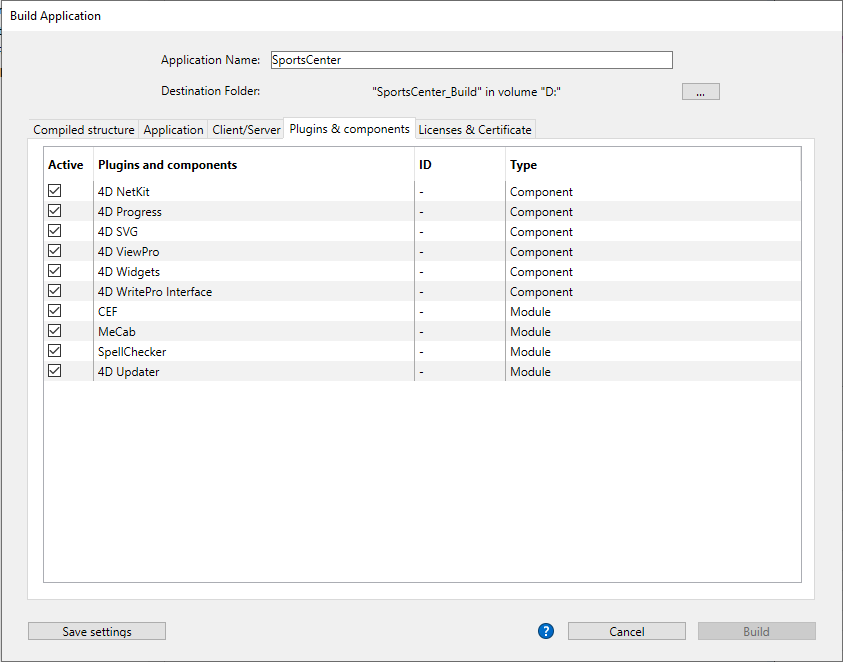
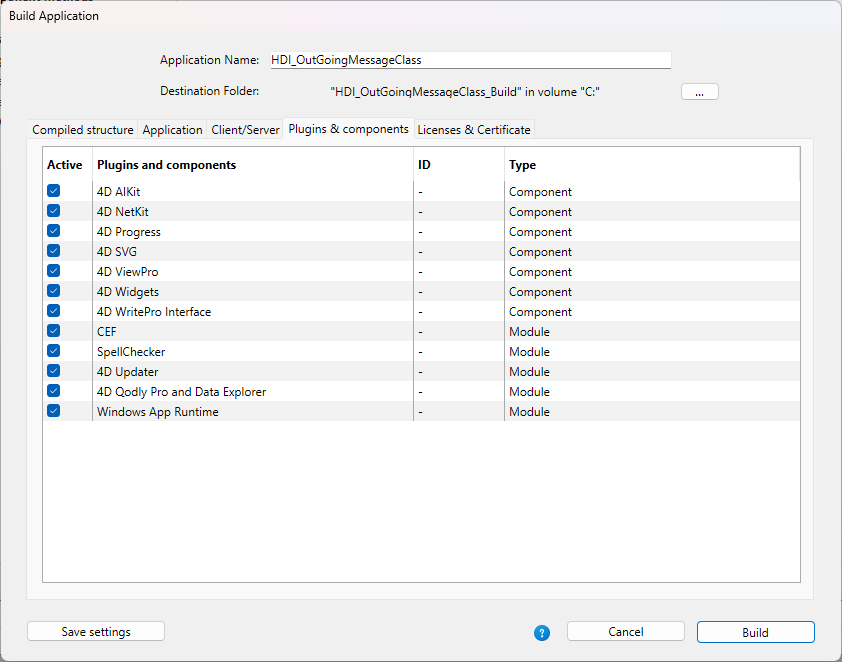
managing feature

diff --git a/sidebars.js b/sidebars.js
@@ -603,7 +603,7 @@ module.exports =
                 "commands-legacy/form-set-size",
                 "commands-legacy/form-set-vertical-resizing",
                 "commands-legacy/form-unload",
-                "commands/form-windows-theme"
+                "commands/form-theme"
               ]
             },
             {

diff --git a/docs/FormEditor/forms.md b/docs/FormEditor/forms.md
@@ -124,9 +124,9 @@ This feature can be used **in 4D projects on Windows**. It is not available on m
 
 ### Requirements
 
-The Fluent UI rendering requires that the ***Windows App SDK** be installed on your machine ([download page](https://learn.microsoft.com/en-us/windows/apps/windows-app-sdk/downloads)). You need to make sure this SDK is installed on any Windows machine displaying your forms.
+The Fluent UI rendering requires that the **Windows App SDK** be installed on your machine ([download page](https://learn.microsoft.com/en-us/windows/apps/windows-app-sdk/downloads)). You need to make sure this SDK is installed on any Windows machine displaying your forms.
 
-If the Windows App SDK is not properly installed, 4D will render all your forms in classic mode with no error. 
+If the Windows App SDK is not properly installed, 4D will render all your forms in classic mode with no error and the following warning will be recorded in the [diagnostic log](../Debugging/debugLogFiles.md#4ddiagnosticlogtxt): "Fluent UI is required but not available. The application runs in the Classic Windows look."
 
 ### Enabling the Fluent UI rendering
 
@@ -139,6 +139,12 @@ Check the **Use Fluent UI on Windows** option in the "Interface" page of the Set
 ![](../assets/en/FormObjects/fluentui-setting.png)
 
 In this case, the Fluent UI rendering mode will be used by default on Windows for all forms.
+
+:::note
+
+If the current configuration is not compliant with the [Fluent UI requirements](#requirements), an error message is displayed next to the check box.
+
+:::
 
 #### Form setting
 

diff --git a/docs/Desktop/building.md b/docs/Desktop/building.md
@@ -494,12 +494,9 @@ A module is a built-in code library used by 4D to control specific features. If 
 The following optional modules can be deselected:
 
 * **CEF**: Chromium embedded library. It is necessary to run [Web areas](../FormObjects/webArea_overview.md) that use the embedded rendering engine and [4D View Pro areas](../FormObjects/viewProArea_overview.md). Calling such areas when CEF is deselected will display blank areas and/or generate errors.
-* **MeCab**: Library used for text indexing in Japanese language (see this [settings paragraph](../settings/database.md#support-of-mecab-japanese-version)). Deselecting this module will force text indexes to be rebuilt in Japanese language.
-
-> If you deselect MeCab for an application in Japanese language used on heterogeneous platforms, make sure to deselect it on both client/server build and [client application build](#build-client-application) (for the concurrent platform), otherwise major malfunctions will occur in the application.
-
 * **SpellChecker**: Used for built-in [spellchecking features](../FormObjects/properties_Entry.md#auto-spellcheck) and commands available for input areas and 4D Write Pro areas.
 * **4D Updater**: Controls the [automatic update](#what-is-a-clientserver-application) of client parts and is used by the `SET UPDATE FOLDER` command for [automated server updates](#automatic-updating-of-server-or-single-user-applications).
+* **Windows App Runtime**: Required for [Fluent UI rendering](../FormEditor/forms.md#fluent-ui-rendering) on Windows.
 
 ## Licenses & Certificate page
 

diff --git a/docs/API/FileClass.md b/docs/API/FileClass.md
@@ -554,6 +554,7 @@ You want to rename "ReadMe.txt" in "ReadMe_new.txt":
 
 |Release|Changes|
 |---|---|
+|21 R2|support of removeFluentUI|
 |20 R9|Read UUIDs in macOS executables|
 |20|Support of WinIcon|
 |19|Added|
@@ -600,14 +601,15 @@ Each valid property set in the *info* object parameter is written in the version
 
 |Property|Type|Comment|
 |---|---|---|
-|InternalName|Text||
-|ProductName|Text||
 |CompanyName|Text||
-|LegalCopyright|Text||
-|ProductVersion|Text||
 |FileDescription|Text||
 |FileVersion|Text||
+|InternalName|Text||
+|LegalCopyright|Text||
 |OriginalFilename|Text||
+|ProductName|Text||
+|ProductVersion|Text||
+|removeFluentUI|Boolean|True to remove the [Fluent UI](../FormEditor/forms.md#fluent-ui-rendering) manifest from the build. Write-only property. Using False or omitting the property does nothing.|
 |WinIcon|Text|Posix path of .ico file. This property applies only to 4D generated executable files.|
 
 For all properties except `WinIcon`, if you pass a null or empty text as value, an empty string is written in the property. If you pass a value type different from text, it is stringified.

diff --git a/docs/Notes/updates.md b/docs/Notes/updates.md
@@ -10,12 +10,11 @@ Read [**What’s new in 4D 21 R2**](https://blog.4d.com/en-whats-new-in-4d-21-r2
 #### Highlights
 
 - Support of [**fluent UI** rendering](../FormEditor/forms.md#fluent-ui-rendering) on Windows: 
-    - new [`FORM Theme`](../commands/form-theme.md) command, 
+    - new [`FORM theme`](../commands/form-theme.md) command, 
     - new [`form-theme` css media query](../FormEditor/createStylesheet.md#media-queries), 
     - new [**Use Fluent UI on Windows**](../settings/interface.md#use-fluent-ui-on-windows) option in the Settings dialog box,
 - [Code Live Checker](../code-editor/write-class-method.md#warnings-and-errors) has been enhanced to provide greater precision in error detection (see [this blog post](https://blog.4d.com/better-error-handling-and-type-inference-for-4d-developers) for more information).
 - 4D AIKit component: new [File API](../aikit/Classes/OpenAIFilesAPI.md) class to implement **file upload** features. 
-
 - [**Fixed bug list**](https://bugs.4d.fr/fixedbugslist?version=21_R2): list of all bugs that have been fixed in 4D 21 R2.
 
 

diff --git a/docs/GettingStarted/Installation.md b/docs/GettingStarted/Installation.md
@@ -21,6 +21,12 @@ Additional technical details are available on the 4D website's [Resources page](
 
 2. Click on the download link for your 4D product and follow the on-screen instructions.
 
+:::info
+
+The Windows Setup panel includes a link allowing you to download the **Windows App SDK** installer. You need to install this SDK to [use Fluent UI in 4D applications on Windows](../FormEditor/forms.md#fluent-ui-rendering). 
+
+:::
+
 
 ## Sign in
 
